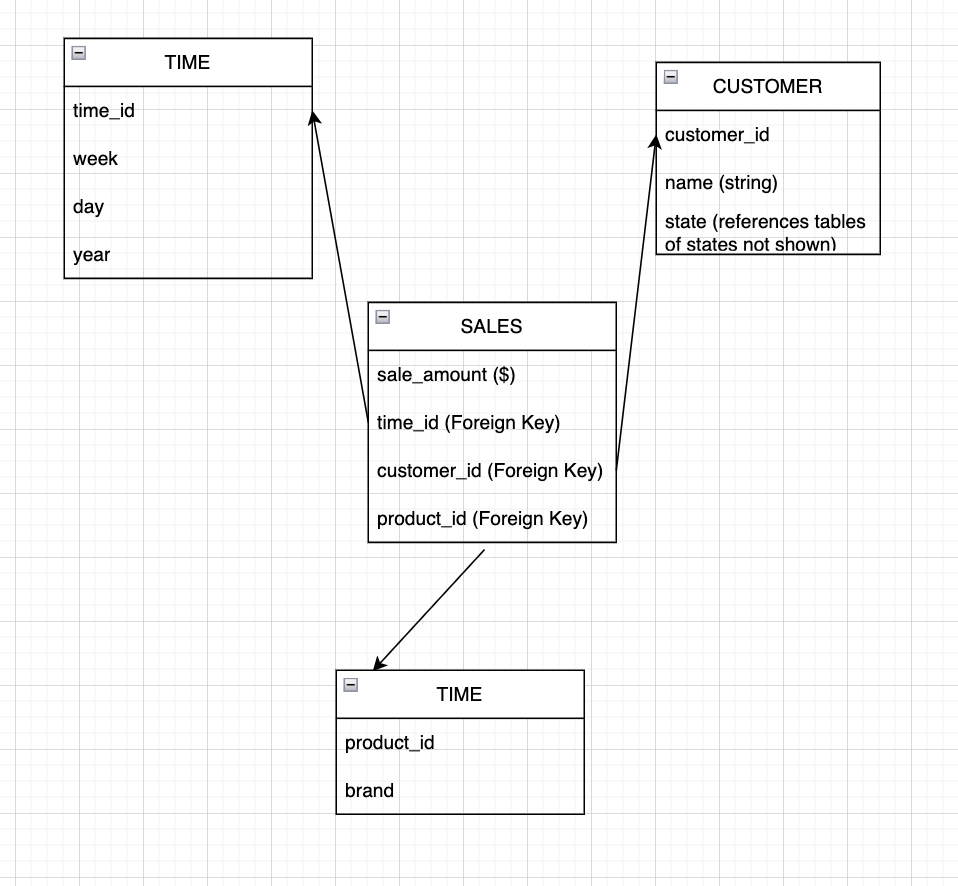
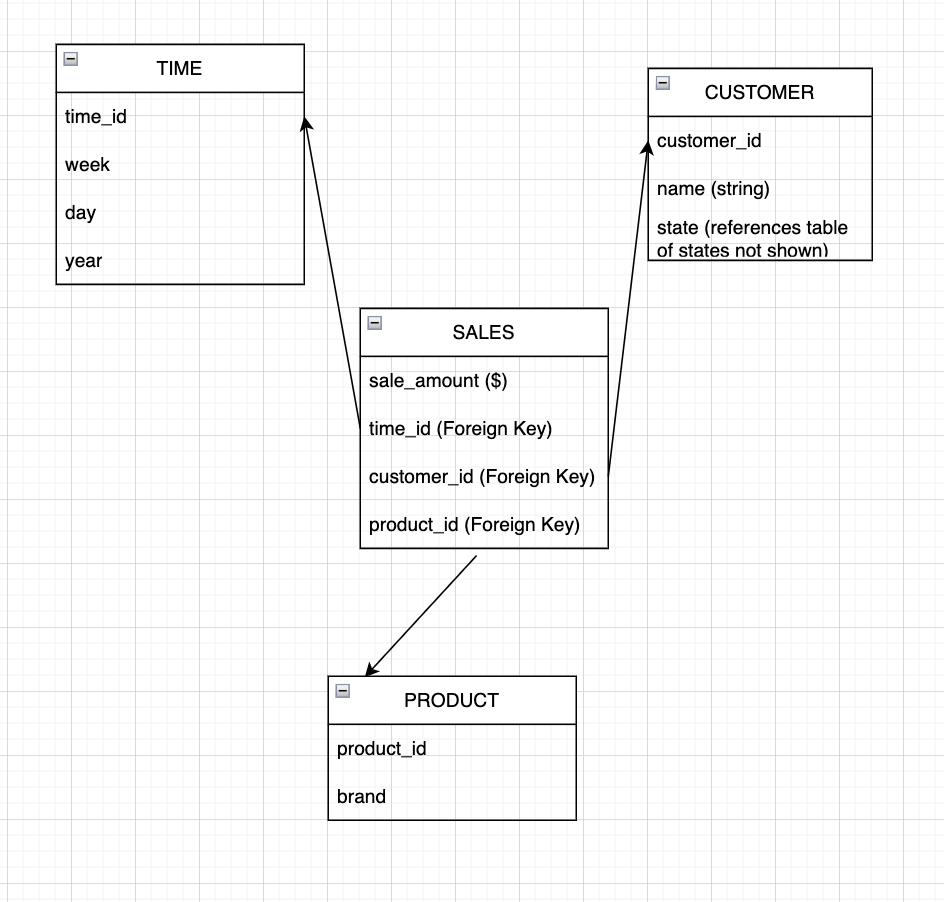
updated star schema

diff --git a/_posts/2022-12-23-variant-indexes.md b/_posts/2022-12-23-variant-indexes.md
@@ -183,7 +183,10 @@ Using a Bit-Sliced index: Interestingly, this can be done efficiently.  It's pre
 
 # Section 5
 
-First, some more background information.  A common schema in OLAP databases
+First, some more background information.  A common schema in OLAP databases is the star schema.
+
+![](star-schema.png)
+*A star schema example.*
 
 
 
